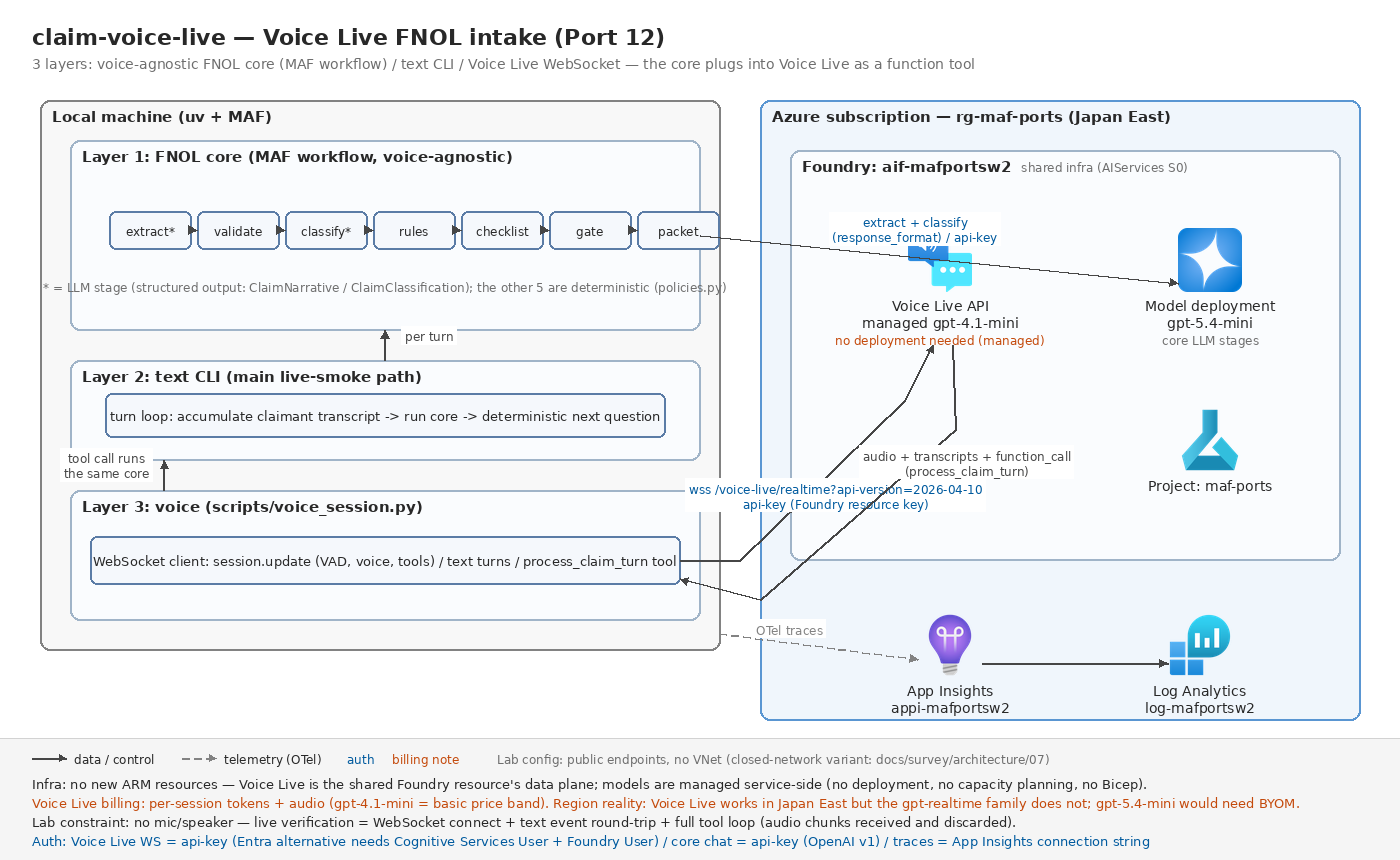
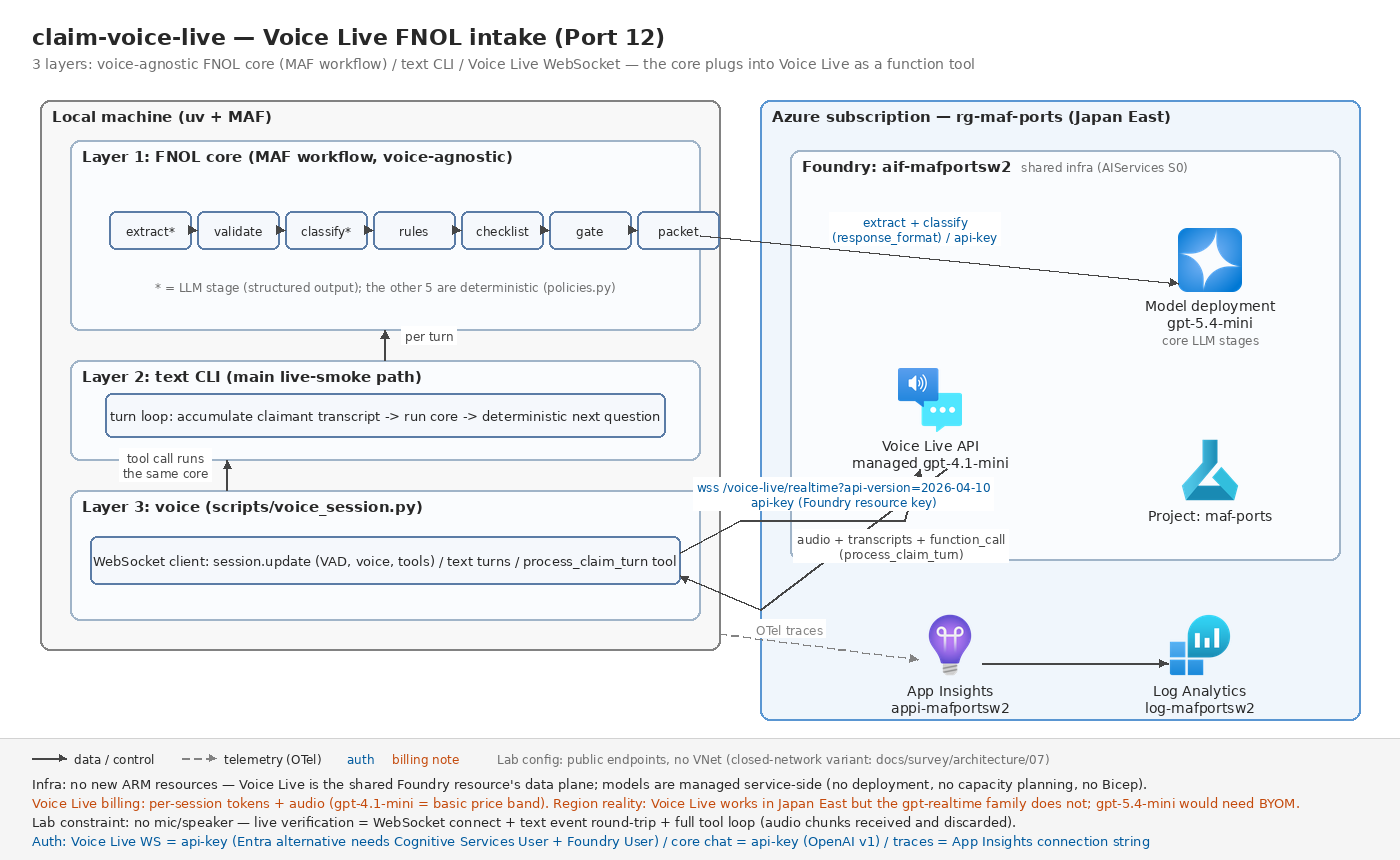
maf-ports W3 Port 14: governed-agent (MAF middleware governance)
ai_agent_governance + trust_gated_agent_team を統合移植:
- MAF middleware 3種(Agent/Chat/Function)でポリシー割込み・監査・
  信頼ゲートを実装。short-circuit 2方式の意味論差を実測で固定
  (context.result=拒否を見せてループ続行 / MiddlewareTermination=全停止)
- 罠発見: from __future__ import annotations 下では関数形態 middleware
  の型判定が壊れる(デコレータ明示必須)— 既知の罠3(c)の middleware 版
- SHA-256 ハッシュ連鎖監査+独立検証(--verify)、gold/silver/bronze
  信頼ゲート+HITL キュー
- オフライン65件 + ライブ2本(実行前遮断が実機で機能)
- 学び: トレースは遮断を残せず・監査は内容を持たず — 役割直交の2本立て

diff --git a/labs/maf-ports/ports/claim-voice-live/docs/architecture.py b/labs/maf-ports/ports/claim-voice-live/docs/architecture.py
@@ -34,8 +34,8 @@ for s in stage_labels:
     x += 88
 for a, b in zip(stages, stages[1:]):
     d.edge(a, b, width=1)
-d.d.text((385, 280), "* = LLM stage (structured output: ClaimNarrative / ClaimClassification); "
-         "the other 5 are deterministic (policies.py)", font=F_EDGE, fill=MUTED, anchor="ma")
+d.d.text((385, 280), "* = LLM stage (structured output); the other 5 are deterministic (policies.py)",
+         font=F_EDGE, fill=MUTED, anchor="ma")
 
 turn = d.box(385, 415, 560, 44, "turn loop: accumulate claimant transcript -> run core -> "
              "deterministic next question")
@@ -45,24 +45,24 @@ voice = d.box(385, 560, 590, 48, "WebSocket client: session.update (VAD, voice, 
 azure = d.cluster(760, 100, 1360, 720, "Azure subscription — rg-maf-ports (Japan East)", kind="azure")
 foundry = d.cluster(790, 150, 1340, 560, "Foundry: aif-mafportsw2", kind="sub",
                     sublabel="shared infra (AIServices S0)")
-vl = d.node(940, 260, icon("speech"), "Voice Live API\nmanaged gpt-4.1-mini",
-            note="no deployment needed (managed)", note_color=ORANGE)
+vl = d.node(930, 400, icon("speech"), "Voice Live API\nmanaged gpt-4.1-mini")
 model = d.node(1210, 260, icon("model"), "Model deployment\ngpt-5.4-mini", note="core LLM stages")
-project = d.node(1210, 440, icon("project"), "Project: maf-ports")
+project = d.node(1210, 470, icon("project"), "Project: maf-ports")
 appi = d.node(950, 645, icon("appinsights"), "App Insights\nappi-mafportsw2")
 logw = d.node(1200, 645, icon("loganalytics"), "Log Analytics\nlog-mafportsw2")
 d.edge(appi, logw)
 
 d.edge(l2.port("top", 0.5), l1.port("bottom", 0.5), label="per turn", label_t=0.5, label_dx=44)
-d.edge(l3.port("top", 0.15), l2.port("bottom", 0.15), label="tool call runs\nthe same core", label_t=0.5,
-       label_dx=-58)
+d.edge(l3.port("top", 0.25), l2.port("bottom", 0.25), label="tool call runs\nthe same core", label_t=0.5,
+       label_dx=-62)
 d.edge(l1.port("right", 0.5), model, label="extract + classify\n(response_format) / api-key",
        label_color=BLUE, label_t=0.45, label_dy=-28)
-d.edge(voice.port("right", 0.5), vl.port("bottom", 0.4), via=[(740, 560), (905, 400)],
+d.edge(vl.port("bottom", 0.75), voice.port("right", 0.85), via=[(760, 610)],
+       label="audio + transcripts + function_call\n(process_claim_turn)", label_t=0.45, label_dx=70,
+       label_dy=-10)
+d.edge(voice.port("right", 0.35), vl.port("bottom", 0.35), via=[(740, 520), (905, 520)],
        label="wss /voice-live/realtime?api-version=2026-04-10\napi-key (Foundry resource key)",
-       label_color=BLUE, label_t=0.55, label_dy=28)
-d.edge(vl.port("bottom", 0.7), voice.port("right", 0.9), via=[(955, 430), (760, 600)],
-       label="audio + transcripts + function_call\n(process_claim_turn)", label_t=0.35, label_dx=60)
+       label_color=BLUE, label_t=0.6, label_dy=-26)
 d.edge(local.port("right", 0.97), appi, style="dashed", color=TELEM,
        label="OTel traces", label_t=0.35, label_dy=-14)
 

diff --git a/labs/maf-ports/ports/hn-briefing-hosted/docs/architecture.py b/labs/maf-ports/ports/hn-briefing-hosted/docs/architecture.py
@@ -50,14 +50,14 @@ d.edge(deploy, hosted.port("left", 0.15), via=[(620, 238)],
        label_t=0.4, label_dy=-28)
 d.edge(routset, routine.port("left", 0.5),
        label="PUT /routines?api-version=v1\n+ Foundry-Features header — Entra ID", label_color=BLUE,
-       label_t=0.55, label_dy=34, label_dx=-30)
-d.edge(routine, hosted, label="invoke_agent_responses_api\n(1 trigger + 1 action)", label_t=0.5, label_dy=-28)
+       label_t=0.55, label_dy=34, label_dx=-60)
+d.edge(routine, hosted, label="invoke_agent_responses_api\n(1 trigger + 1 action)", label_t=0.5, label_dy=-40)
 d.edge(hosted, model, label="FoundryChatClient —\nagent identity (Entra ID)", label_color=BLUE,
        label_t=0.5, label_dy=-26)
 d.edge(hosted, tool, label="tool call", label_t=0.5, label_dx=32)
 d.edge(tool.port("left", 0.5), hn.port("right", 0.3), label="HTTPS GET (keyless)", label_t=0.45, label_dy=-14)
 d.edge(hosted, appi, style="dashed", color=TELEM, via=[(680, 340), (680, 560)],
-       label="OTel auto — conn string\ninjected by platform", label_t=0.6, label_dy=0, label_dx=-100)
+       label="OTel auto — conn string\ninjected by platform", label_t=0.75, label_dy=0, label_dx=-100)
 
 d.footer(
     notes=[

diff --git a/labs/maf-ports/ports/db-routing-iq/docs/architecture.py b/labs/maf-ports/ports/db-routing-iq/docs/architecture.py
@@ -58,12 +58,12 @@ d.edge(mcpend, kb)
 d.edge(kb, ks, label="parallel subqueries\n+ L2 semantic rerank", label_t=0.6, label_dx=52, label_dy=-16)
 d.edge(ks, idx)
 d.edge(kb, model, label="LLM query planning, effort=low\n(api-version 2026-05-01-preview) / api-key",
-       label_color=BLUE, label_t=0.68, label_dx=112, label_dy=-6)
+       label_color=BLUE, label_t=0.8, label_dx=130, label_dy=0)
 d.edge(agent.port("bottom", 0.9), model, via=[(660, 480)],
-       label="answer synthesis stays agent-side\nchat / api-key", label_color=BLUE, label_t=0.35, label_dy=30)
+       label="answer synthesis stays agent-side\nchat / api-key", label_color=BLUE, label_t=0.75, label_dy=-8)
 d.edge(setup, srch.port("left", 0.8), label="REST: create idx x3\n+ KS x3 + KB", label_t=0.4, label_dy=-26)
-d.edge(local.port("right", 0.95), appi, style="dashed", color=TELEM,
-       label="OTel traces", label_t=0.35, label_dy=-14)
+d.edge(local.port("right", 0.95), appi, style="dashed", color=TELEM, via=[(730, 620)],
+       label="OTel traces", label_t=0.4, label_dx=-8)
 
 d.footer(
     notes=[

diff --git a/labs/maf-ports/ports/governed-agent/README.md b/labs/maf-ports/ports/governed-agent/README.md
@@ -1,0 +1,172 @@
+# governed-agent — ガバナンス層 2 本を MAF middleware に統合移植(Port 14)
+
+元(2 本を 1 つの題材アプリに統合):
+
+- [`advanced_ai_agents/single_agent_apps/ai_agent_governance`](https://github.com/Shubhamsaboo/awesome-llm-apps/tree/main/advanced_ai_agents/single_agent_apps/ai_agent_governance)(約 600 行。ツール実行前に決定論ポリシーを強制するガバナンス層)
+- [`advanced_ai_agents/multi_agent_apps/trust_gated_agent_team`](https://github.com/Shubhamsaboo/awesome-llm-apps/tree/main/advanced_ai_agents/multi_agent_apps/trust_gated_agent_team)(約 650 行。信頼スコアゲート付き逐次チーム+ハッシュ連鎖監査)
+
+Wave 3 のポート。核心は **MAF の middleware サーフェス(agent / chat / function の 3 種)でガバナンス層を実装する**こと — Wave 1-2 で未検証だった唯一の主要拡張点。題材は経費精算エージェント(申請 → 検査 → 承認)で、(1) ツール実行前の決定論ポリシー、(2) 段間の信頼スコアゲート+HITL、(3) 全操作のハッシュ連鎖監査、の 3 機構を 1 本に束ねた。
+
+## 元の構成(5行)
+
+- **ai_agent_governance**: ツールをデコレータ(`governed_tool`)で包み、実行前に `PolicyEngine`(YAML 定義のルール列: filesystem / network / rate limit / 承認必須)を評価。判定は 3 値(ALLOW / DENY / REQUIRE_APPROVAL)で、DENY は `PolicyViolation` 例外、承認は `input()` の対話プロンプト。全判定を audit log(平文リスト)へ記録
+- LLM 面は「ツール呼び出しをテキストで書かせて正規表現でパース」という手作りループ(function calling 未使用)
+- **trust_gated_agent_team**: Researcher → Analyst → Writer の逐次パイプライン。各エージェントは registry の静的信頼スコア(0-100、gold/silver/bronze 階層)を持ち、閾値未満は**参加前にブロック**
+- 全アクション(信頼検証・各段の実行)を SHA-256 ハッシュ連鎖(`prev_hash` + 全フィールド)の `AuditTrail` に記録し、`verify_chain()` で改ざん検知。JSON エクスポートは単独で再検証可能
+- UI は Streamlit(スコアのスライダー・監査チェーンビューア)。LLM は OpenAI 直
+
+## 実装前調査の結果(2026-07、installed package `agent_framework` 1.13.0 の `_middleware.py`(1,567 行)+ `_tools.py` / `_agents.py` / `_clients.py` 精読)
+
+### middleware は 3 種(介入面)× 2 形態(クラス/関数)
+
+| 種類 | 包む単位 | context | 発火頻度(実測) |
+| --- | --- | --- | --- |
+| `AgentMiddleware` | `agent.run` 全体 | `AgentContext`(agent / messages / session / tools / options / stream / metadata / result) | run につき 1 回 |
+| `ChatMiddleware` | モデル呼び出し | `ChatContext`(client / messages / options / result ...) | **function-calling ループの各反復ごと** |
+| `FunctionMiddleware` | ツール呼び出し 1 件 | `FunctionInvocationContext`(function / arguments / metadata / result / **tools**=実行中 run の生ツールリスト) | ツール呼び出しごと |
+
+- 全種とも `async def process(context, call_next)` のオニオン合成。**戻り値は使わずすべて context 経由**(`call_next()` は None を返す)
+- 形態は (a) ABC 継承クラス、(b) 素の async 関数。関数形態の種別判定は「デコレータ(`@function_middleware` 等)」または「第 1 引数の型注釈名」— **`from __future__ import annotations` 下では注釈が文字列になり型注釈判定が壊れる**(`MiddlewareException` で即死)。既知の罠 3(c) の middleware 版。デコレータ明示が安全(test_middleware.py で再現を固定)
+- 登録は `Agent(middleware=[...])`(基底)と `run(middleware=[...])`(実行時)の 2 層で、`categorize_middleware` が 3 種に自動仕分け。**agent 種は Agent 側のパイプライン、function/chat 種は実行時に `client_kwargs["middleware"]` としてチャットクライアントへ転送される**(`AgentMiddlewareLayer.run` → `FunctionInvocationLayer` / `ChatMiddlewareLayer`)。リスト内の同種 middleware は列挙順 = 外→内
+
+### short-circuit は 2 方式で、意味がまったく違う(本ポートの分岐点)
+
+1. **`context.result` をセットして `call_next()` を呼ばず return**: FunctionMiddleware ではその値が `Content.from_function_result` に包まれて**そのままツール結果としてモデルに渡り**、ツール本体は実行されず、**ループは続行**する(モデルは拒否理由を説明できる)。ポリシー拒否はこちら
+2. **`MiddlewareTermination` を raise**: agent/chat パイプラインは `execute()` が suppress して後処理スキップだが、**function パイプラインは意図的に suppress しない**(`_tools.py` に "MiddlewareTermination bubbles up to signal loop termination" と明記)— function-calling ループ全体が停止し、次のモデル呼び出しは発生しない。`exc.result` に詰めた値は messages に function_result として残るが最終応答は空。暴走停止・予算超過のkill switch 用
+
+### その他の発見
+
+- `FunctionInvocationContext.arguments` は**検証済みの素の dict**(pydantic input_model で validate 済み)— ポリシー判定に十分
+- `context.metadata` は同一パイプライン内の middleware 間共有 dict。フレームワーク自身も `call_id` / `approval_response` をここに載せる(→ ポリシー判定を監査 middleware へ渡すのに使用)
+- `FunctionInvocationContext.tools` は実行中 run の**生ツールリスト**(experimental)。`add_tools` / `remove_tools` で次反復から動的に増減できる(progressive tool exposure)— 本ポート未使用だが「違反を繰り返すツールを run 途中で剥奪する」拡張点
+- MAF ネイティブの承認フロー `@tool(approval_mode="always_require")` が既にある。ただし**ツール単位の静的宣言**で、「金額 $1,000 超だけ承認必須」のような**引数依存の動的判定**は表現できない → 本ポートは FunctionMiddleware + 自前キューで実装(hitl.py)
+- チャットクライアントの層合成は `FunctionInvocationLayer → ChatMiddlewareLayer → (Telemetry) → BaseChatClient` の MRO。**この合成を自前クラスで再現すれば、scripted なチャットクライアントの上で本物の function-calling ループ+middleware パイプラインが回る** → オフラインテスト戦略の根拠(下記)
+
+## 移植後の構成
+
+```
+経費申請テキスト
+  │
+  ▼ intake Agent(構造化出力 ExpenseClaim)────────┐
+  ▼ 信頼ゲート①(決定論: 欠落・領収書・不確定で減点)│ スコア < 閾値
+  ▼ inspector Agent(構造化出力 InspectionReport)──┤──▶ 人間承認キュー
+  ▼ 信頼ゲート②(決定論: 確信度・所見の重さで減点)─┘    (HITL スタブ)
+  ▼ approver Agent + ツール束
+  │    middleware(外→内):
+  │      AgentAuditMiddleware      … run 全体を監査連鎖へ
+  │      ToolAuditMiddleware       … 全ツール呼び出し(遮断含む)を監査連鎖へ
+  │      PolicyEnforcementMiddleware … 決定論ルール(許可リスト/営業時間/金額)
+  │         ├ ALLOW → ツール実行(台帳に支払い)
+  │         ├ DENY → 構造化拒否をツール結果として返す(実行せず・ループ続行)
+  │         └ REQUIRE_APPROVAL → HITL チケット発行+保留を返す
+  ▼
+CaseResult(status / 信頼スコア / 支払い / チケット / 監査連鎖の検証結果)
+
+横串: AuditTrail(SHA-256 ハッシュ連鎖)= 全 agent_run・全 tool・全ゲート判定・
+      ケース開閉を 1 本の連鎖に記録。verify_entries() は dict 列だけで動く
+      独立検証関数(CLI --verify でエクスポート JSON を後日検証できる)
+```
+
+### 元 → MAF 対応表
+
+| 元 | 移植後 | 備考 |
+| --- | --- | --- |
+| `governed_tool` デコレータ(実行前検査) | `PolicyEnforcementMiddleware`(FunctionMiddleware) | 介入点がアプリ定義の wrapper → フレームワークの正式サーフェスへ |
+| `PolicyEngine`(YAML ルール列・最初の確定判定が勝つ) | `PolicyEngine`(dataclass 設定・同じ first-terminal-wins) | filesystem/network → 経費ドメインの許可リスト/営業時間/金額に移設。rate limit は原理同一のため省略 |
+| `PolicyViolation` 例外(DENY でループ破壊) | 構造化拒否をツール結果として返す short-circuit | モデルが拒否理由をユーザーに説明できる(下記 学び 1) |
+| `input()` による対話承認(REQUIRE_APPROVAL) | `ApprovalQueue`(HITL スタブ、チケット発行) | 非対話 CLI 前提。MAF ネイティブ `approval_mode` は静的すぎて不採用(調査結果参照) |
+| `TrustRegistry`(エージェントの静的スコアで参加前ブロック) | 段の**出力**の決定論検査でスコア化+閾値未満はエスカレーション | 「誰を信じるか」→「この出力を次段に渡すか」への意味の移動(設計判断) |
+| gold/silver/bronze 階層(60/40/20) | `score_to_tier` そのまま | 挙動互換 |
+| `AuditTrail`(SHA-256 連鎖+verify_chain) | `audit.py` ほぼ直訳 | `trust_score: int` → 汎用 `detail: str`(ポリシー判定と信頼判定を同じ連鎖に載せる)。検証をモジュール関数化し JSON 単独で再検証可能に |
+| Researcher→Analyst→Writer(自由文リレー) | intake→inspector→approver(型付き構造化出力リレー) | 段間が `ExpenseClaim` / `InspectionReport` の型で繋がる |
+| 手作りツール呼び出しパース(`TOOL: name(...)` を regex) | MAF の function-calling ループ | 元の最脆弱部が丸ごと消える |
+| Streamlit UI(スライダー・チェーンビューア) | CLI 化(`--threshold` / `/audit` / `--verify`) | PORTING.md 規約 |
+
+## 設計判断
+
+### fake の注入点を「エージェント境界」から「チャットクライアント境界」へ一段下げた
+
+他ポートのオフラインテストは `SupportsRun` の scripted fake で **Agent ごと**差し替えてきた(罠 12)。本ポートの検証対象は Agent の内側にある middleware パイプラインなので、それでは肝心の機構がテストから消える。調査で層合成(`FunctionInvocationLayer + ChatMiddlewareLayer + BaseChatClient`)を確認し、`ScriptedChatClient`(conftest.py、約 30 行)を同じ合成で組んだ結果、**実 `Agent` + 本物の function-calling ループ + 本物の middleware パイプライン**がネットワークなしで回る。「ポリシー違反のツールが実行されない」ことを、モック越しでなく実機構+台帳の生記録(`ledger.executed_calls`)で証明できる。
+
+### DENY は例外ではなく「構造化拒否のツール結果」
+
+元 ai_agent_governance は DENY で例外を投げてエージェントループを壊し、拒否理由は人間側のログにしか残らなかった。MAF の short-circuit は拒否をツール結果としてモデルに返せるので、**モデル自身が「AMT-001 により実行されませんでした」と説明して会話を続ける**。`MiddlewareTermination` は「説明の機会を与えず止める」kill switch として意味が別(テストで両方の挙動を固定)。
+
+### 監査 middleware はポリシー middleware の外側
+
+合成順 `[ToolAudit, PolicyEnforcement]`(列挙順=外→内)により、**遮断された呼び出しも監査連鎖に載る**。判定内容は `context.metadata`(middleware 間共有)で内→外に受け渡す。連鎖には生の入出力を置かずハッシュのみ(元と同じ)— 内容の追跡はトレースの仕事、連鎖は順序と非改ざんの証明(学び 4)。
+
+### 信頼スコアの意味を「エージェントの属性」から「出力の検査結果」へ
+
+元の registry(Writer=45 点、rogue-bot=5 点)はデモとしては良いが、静的スコアは「そのエージェントを使うか」という設計時判断で、実行時ゲートの題材として弱い。移植では段のベーススコア(intake 75 / inspection 70 — 元 registry の Researcher/Analyst に対応)から**出力の決定論検査**(欠落項目・領収書なし・低確信・critical 所見)で減点する方式にした。ゲートに落ちた段は先へ進まず HITL キューへ — 「低信頼はブロック」から「低信頼は人間へ」に更新。閾値・階層境界は元の互換。
+
+### 最終ステータスは 2 経路で導出し、一致をテストで固定
+
+実行経路(approver のツール呼び出しが台帳・キュー・監査連鎖に残した副作用から導出)と、決定論経路(`adjudicate()` 純関数)。eval_dataset.jsonl は決定論経路を駆動し、test_pipeline が両経路の一致を検証する。ライブで検証すべき残余は「申請テキストから期待の claim / inspection が出るか」だけに縮む(Port 12 と同じ縮約戦略)。
+
+## アプリ層ガバナンス vs Foundry ガードレール(プレビュー)の対比
+
+[docs/survey/features/06-safety-guardrails.md](../../../../docs/survey/features/06-safety-guardrails.md) の調査に基づく整理。**本ポートの実構成は自前 middleware のみで、ガードレールの実機検証はスコープ外**(tech-selection-guide「未検証領域」のまま)。
+
+| 観点 | 自前 middleware(本ポート/アプリ層) | Foundry ガードレール(サービス層) |
+| --- | --- | --- |
+| 成熟度 | GA の SDK 機能(agent-framework 1.x) | モデル向け GA / **エージェント向け+コントロールと介入はプレビュー** |
+| 介入ポイント | agent run / モデル呼び出し / ツール呼び出しの 3 面(コードで任意) | User input / **Tool call(プレビュー)** / **Tool response(プレビュー)** / Output の 4 点 |
+| 判定の中身 | **任意の決定論ロジック**(金額上限・営業時間・許可リスト等の業務ルール) | Content Safety 分類器ベース(有害・Prompt Shields・PII・Task adherence 等)。**業務ルールは書けない** |
+| アクション | 任意(構造化拒否・HITL キュー・kill switch・書き換え) | Annotate / Annotate and block の 2 択 |
+| 適用範囲 | この MAF アプリのプロセス内のみ。**アプリを迂回した API 直叩きには無力** | デプロイ/エージェント単位でサービス側に強制。迂回不可。レイテンシ約 50-100ms/介入点 |
+| 構成サーフェス | コード(テスト可能・バージョン管理可能) | 新ポータル(Build > Guardrails)+ REST(ARM の RAI policy)。CLI/SDK の管理面は現状記載なし |
+| 落とし穴 | プロセス内で完結する分、組織的強制力がない | エージェントに明示割当てするとモデル側設定を**完全上書き**(Tool call/response のコントロール漏れ = 未スキャン経路) |
+
+結論: 両者は代替ではなく**積層**。有害性・注入攻撃・PII はサービス層(ガードレール)に寄せ、**決定論の業務ポリシー(本ポートの 3 ルールすべて)と監査・HITL はアプリ層にしか置けない**。Tool call 介入点(プレビュー)が GA しても、判定語彙が Content Safety 系である限りこの分担は変わらない — SI 提案では「ガードレールがあるからアプリ層ガバナンス不要」という誤読を防ぐのが要点。
+
+## 実行
+
+```bash
+uv sync --extra dev
+uv run pytest            # オフライン(ネットワーク不要・65 件)
+
+# --- ライブ(要 共有基盤 + ../../.env)---
+uv run governed-agent-maf --request "Client dinner \$180 on 2026-07-24, receipt RCPT-2201, employee E-1042, sales, meals."
+uv run governed-agent-maf --script tests/data/expense_requests.txt --audit-export runs/audit.json
+uv run governed-agent-maf            # 対話(1 行 = 1 申請。/audit /queue /quit)
+uv sync --extra dev --extra live && uv run pytest -m live   # スモーク 2 本
+
+# --- 監査連鎖の独立検証(モデル・Foundry 不要)---
+uv run governed-agent-maf --verify runs/audit.json   # 改ざんがあれば exit 1
+```
+
+主なオプション: `--threshold`(信頼ゲート閾値、既定 40)/ `--auto-approve-limit`(既定 $1,000)/ `--hard-limit`(既定 $5,000)/ `--now 2026-08-01T22:00`(営業時間ルールのデモ用に時刻固定)/ `--json --output`。
+
+営業時間ポリシーは意図的に naive なローカル時刻(組織の壁時計)で判定する(`clock` 注入で決定論化。実運用では zoneinfo で tz-aware 化する)。
+
+## 評価
+
+[tests/eval_dataset.jsonl](./tests/eval_dataset.jsonl)(7 ケース)は「構造化済み claim + inspection + 提案アクション → ゲート判定・ポリシー判定・最終ステータス」のデータ駆動検証で、LLM 3 段の**後段すべて**を決定論として固定する: 正常承認 / ハード上限超過 / 承認バンド(HITL)/ 非許可ツール / 低信頼申請エスカレーション / 低信頼検査エスカレーション / 営業時間外遮断。
+
+## 検証結果(2026-07-31 オフライン)
+
+- オフラインテスト **65 passed**(ポリシー 18 / middleware 10 / 信頼 9 / 監査連鎖 9 / パイプライン 8 / データセット 8 / 設定 3)/ ruff clean / `az bicep build` OK(生成 json は削除)
+- middleware の挙動(short-circuit で実行されない・発火順序・MiddlewareTermination のループ停止・metadata 共有)はすべて**実 `Agent` + 実 middleware パイプライン**で検証済み(scripted なのはモデル応答のみ)
+- CLI の `--verify`(正常連鎖 exit 0 / 改ざん連鎖 exit 1)は手動確認済み
+- ライブスモークは未実施(呼び出し元が実施)。**未検証の残リスク**:
+  1. 実モデル(gpt-5.4-mini)が approver 指示どおり `submit_reimbursement` を呼ぶか(ツール選択はモデル裁量。呼ばない場合スモーク 1 は `status != "paid"` で fail し得る — その場合は指示の強化で対処)
+  2. 拒否ペイロード受領後にモデルがリトライしないか(指示で禁止済み。リトライしても毎回遮断されるため安全性は不変、監査連鎖に deny が複数残るだけ)
+  3. 検査段の confidence / findings の出方(低すぎるとゲート②で意図せずエスカレーション)。スモークは書類完備の題材にして閾値 40 に対し十分な余裕を持たせた
+
+## 検証結果(ライブ)
+
+(未実施 — 呼び出し元が `uv run pytest -m live` 実行後に記入)
+
+## 検証結果(2026-07-31 ライブ)
+
+- オフライン **65 passed** / ruff clean / bicep build OK
+- ライブスモーク **2 passed(20.1s)**: 実モデルで (1) 正常経費が承認まで完走し監査台帳が検証可能(`--verify` exit 0)、(2) 上限超過がポリシー middleware で**実行前遮断**され、拒否理由がモデルに戻り会話が継続(short-circuit の result 方式が実機で機能)
+
+## 学び(MAF/Foundry vs 元構成)
+
+1. **MAF middleware の実際の DX: 「3 種 × 2 形態 × 2 短絡」を掴めば書き味は良い。ただし型推定の罠が 1 つ。**介入面が agent / chat / function に最初から分かれているのは、元アプリが自前で作っていた「wrapper デコレータ+手作りループ」より明確に上等で、ポリシー強制(function)・監査(agent+function)・発火順序の検証(3 種混在)がそれぞれ 30〜60 行のクラスに収まった。合成もリスト列挙順=外→内、と素直。一方で短絡が 2 方式あり意味が全く違う(`context.result`+return = 「拒否を返して**会話は続く**」/ `MiddlewareTermination` = 「ループごと**止める**」— function パイプラインだけ後者を suppress しない実装意図が `_tools.py` にコメントで明記されている)。この選択はガバナンス設計そのもの(拒否を説明させるか、即断させるか)で、両方をテストで固定した。罠は関数形態の型推定: `from __future__ import annotations` があると第 1 引数の型注釈判定が壊れて `MiddlewareException` になる — デコレータ明示(`@function_middleware`)で回避。既知の罠 3(c)(future annotations × get_type_hints)の middleware 版で、全ファイルに future import を置く本ラボの規約とは相性が悪い。
+2. **アプリ層ガバナンスとFoundry ガードレールは代替ではなく積層 — 「決定論の業務ルール」はサービス層に置き場がない。**移植した 3 ルール(許可ツールリスト・金額上限・営業時間)は、ガードレールの語彙(Content Safety 分類器によるリスク検出+Annotate/Block)では 1 つも表現できない。逆に有害性・Prompt Shields・PII はアプリ層で自作すべきでない(分類器の質と迂回耐性でサービス層が勝つ)。介入ポイントの対応も非対称で、ガードレールの Tool call / Tool response(エージェント向け・プレビュー)は本ポートの FunctionMiddleware と同じ場所に立つが、判定できる中身が違う。さらに survey 06 の重要注意 2 点 — エージェントへの明示割当てはモデル側設定を**完全上書き**(コントロール漏れ経路が未スキャンになる)、Claude や managed compute は組み込みフィルタ適用外 — を合わせると、SI の設計指針は「ガードレール=コンテンツ安全の下層、middleware=業務ガバナンスの上層、監査・HITL は常にアプリ層」に落ちる。本ポートは前者の実機検証をスコープ外とした(プレビュー+ポータル/REST 主体でコード検証に馴染まない)。
+3. **「fake をどの境界に注入するか」は検証対象で決まる — middleware の検証には ScriptedChatClient(層合成の再現)が正解だった。**罠 12 の Protocol 注入(SupportsRun)は Agent の外側で差し替えるため、Agent 内部の middleware パイプラインごとテストから消してしまう。installed package の精読で公開クラスの層合成(`FunctionInvocationLayer + ChatMiddlewareLayer + BaseChatClient`、OpenAIChatClient と同じ MRO)を確認し、`_inner_get_response` だけ台本化した自前クライアント(約 30 行)を組んだ結果、**「ポリシー違反のツールが実行されない」ことを本物の function-calling ループで証明**できた(台帳の生記録が空 = 実行なし、モデルへの 2 回目リクエストに構造化拒否が function_result として渡っている、まで検証)。発火順序も実測で確定: `agent_pre → [chat_pre → chat_post](モデル呼び出しごと) → function_pre/post(ツールごと) → agent_post`。chat middleware が「ループ各反復」で発火する事実は、トークン課金の監視やプロンプト注入検査をどこに置くかの判断材料になる。
+4. **監査ログ(ハッシュ連鎖)とトレース(App Insights)は役割が直交する — 「内容の追跡」と「順序・非改ざんの証明」。**トレースは配線 2 行(罠にすらならない、Port 1 以来の定型)で invoke_agent / execute_tool スパンが出て、**遮断されたツール呼び出しはスパン自体が出ない**(実行されていないから)。つまりトレースだけでは「呼ばれなかった」と「遮断された」を区別できない。ハッシュ連鎖は逆で、遮断も保留も 1 本の連鎖に `deny:AMT-001` として残り、エクスポート JSON は SHA-256 だけで後日・別プロセスで再検証できる(`--verify`、改ざん・削除・並べ替えを検知)が、生の入出力はハッシュしか持たない(内容は追えない。これは元設計の意図的な性質で、監査ログに PII を残さない利点でもある)。実運用の形は「トレース=調査ツール、監査連鎖=コンプライアンス証跡(内容が要るときはハッシュでトレースと突合)」の 2 本立て。middleware はこの 2 本を**同じ介入点から**同時に給餌できる位置にあり、これが「ガバナンスは middleware で書く」ことの隠れた配当だった。
+5. **元アプリ 2 本の統合で「ガバナンスの 3 層」が 1 つの器に収まった — 移植はここでも設計レビューとして機能した。**ai_agent_governance の弱点は LLM 面(function calling 不使用の regex パース)で、trust_gated の弱点はゲートの静的さ(スコアがハードコードの属性)だった。MAF に載せ替える過程で、前者はフレームワークのループに置換されて消滅し、後者は「段の出力の決定論検査」に再定義されて業務的な意味を獲得した(欠落・低確信で減点 → 閾値未満は人間へ)。逆に元から強かった部分 — ポリシーの first-terminal-wins 評価、ハッシュ連鎖の検証アルゴリズム、gold/silver/bronze 境界 — はフレームワーク非依存の純関数としてほぼ直訳で生き残っている。「フレームワークが吸収する部分(ループ・介入点・型)」と「アプリが持ち続ける部分(業務ルール・監査・信頼の定義)」の線引きが、この 2 本を並べて移植すると最も鮮明に見える。

diff --git a/labs/maf-ports/ports/travel-memory/README.md b/labs/maf-ports/ports/travel-memory/README.md
@@ -42,6 +42,8 @@ REST パス(参考。ライブデバッグ時に curl で叩ける):`POST {proje
 
 ## 移植後の構成
 
+![architecture](./docs/architecture.png)
+
 ```
 ユーザー発言 ─▶ MemoryStore.search(query, user_id)      ─▶ "Relevant past information:\n- ..."
                 (Foundry: search_memories, scope=user_id)    をプロンプト先頭に注入

diff --git a/labs/maf-ports/ports/research-handoff/README.md b/labs/maf-ports/ports/research-handoff/README.md
@@ -28,6 +28,8 @@ installed package(agent-framework-core 1.10 / 1.12)を調査した結論:
 
 ## 移植後の構成
 
+![architecture](./docs/architecture.png)
+
 ```
                   ┌─[handoff_to == "research"]─▶ Research ──▶ Editor ─▶ ResearchHandoffResult
 topic ─▶ Triage ──┤   (search_web +                (要約+facts を

diff --git a/labs/maf-ports/ports/corrective-rag/README.md b/labs/maf-ports/ports/corrective-rag/README.md
@@ -27,6 +27,8 @@
 
 ## 移植後の構成
 
+![architecture](./docs/architecture.png)
+
 ```
                                       ┌─[Default: 全て関連]──────────────────────────▶ generate ─▶ answer
 question ─▶ retrieve ─▶ grade_documents┤  (needs_web_search == False)

diff --git a/labs/maf-ports/ports/data-analysis-ci/README.md b/labs/maf-ports/ports/data-analysis-ci/README.md
@@ -40,6 +40,8 @@
 
 ## 移植後の構成
 
+![architecture](./docs/architecture.png)
+
 ```
 data.csv + 質問 ─▶ validate_data_file(csv/xlsx チェック — 元アプリの形式分岐)
               ─▶ upload_data_file(chat_client.client.files, purpose="assistants")─▶ file-xxx

diff --git a/labs/maf-ports/ports/trend-analysis/README.md b/labs/maf-ports/ports/trend-analysis/README.md
@@ -12,6 +12,8 @@
 
 ## 移植後の構成
 
+![architecture](./docs/architecture.png)
+
 ```
 topic ──▶ CollectorExecutor ──▶ SummarizerExecutor ──▶ AnalyzerExecutor ──▶ TrendReport
           (search_news tool)     (read_article tool)     (ツールなし)

diff --git a/labs/maf-ports/ports/critique-loop/README.md b/labs/maf-ports/ports/critique-loop/README.md
@@ -40,6 +40,8 @@
 
 ## 移植後の構成
 
+![architecture](./docs/architecture.png)
+
 ```
                 ┌─▶ candidate(structured)─┐
     prompt ──▶ dispatcher ─▶ candidate(practical) ─┼─▶ synthesize ─▶ critic ─┐

diff --git a/labs/maf-ports/ports/mixture-of-agents/README.md b/labs/maf-ports/ports/mixture-of-agents/README.md
@@ -12,6 +12,8 @@
 
 ## 移植後の構成
 
+![architecture](./docs/architecture.png)
+
 ```
                 ┌─▶ Proposer(analyst)    ─┐
 question ──▶ Dispatcher ─▶ Proposer(creative)   ─┼─▶ Aggregator ──▶ MoAResult

diff --git a/labs/maf-ports/ports/db-routing-iq/README.md b/labs/maf-ports/ports/db-routing-iq/README.md
@@ -50,6 +50,8 @@
 
 ## 移植後の構成
 
+![architecture](./docs/architecture.png)
+
 ```
 質問 ─▶ db_routing_agent(MAF Agent, gpt-5.4-mini)
           ├─ knowledge_base_retrieve(MCPStreamableHTTPTool)─▶ AI Search knowledge base
